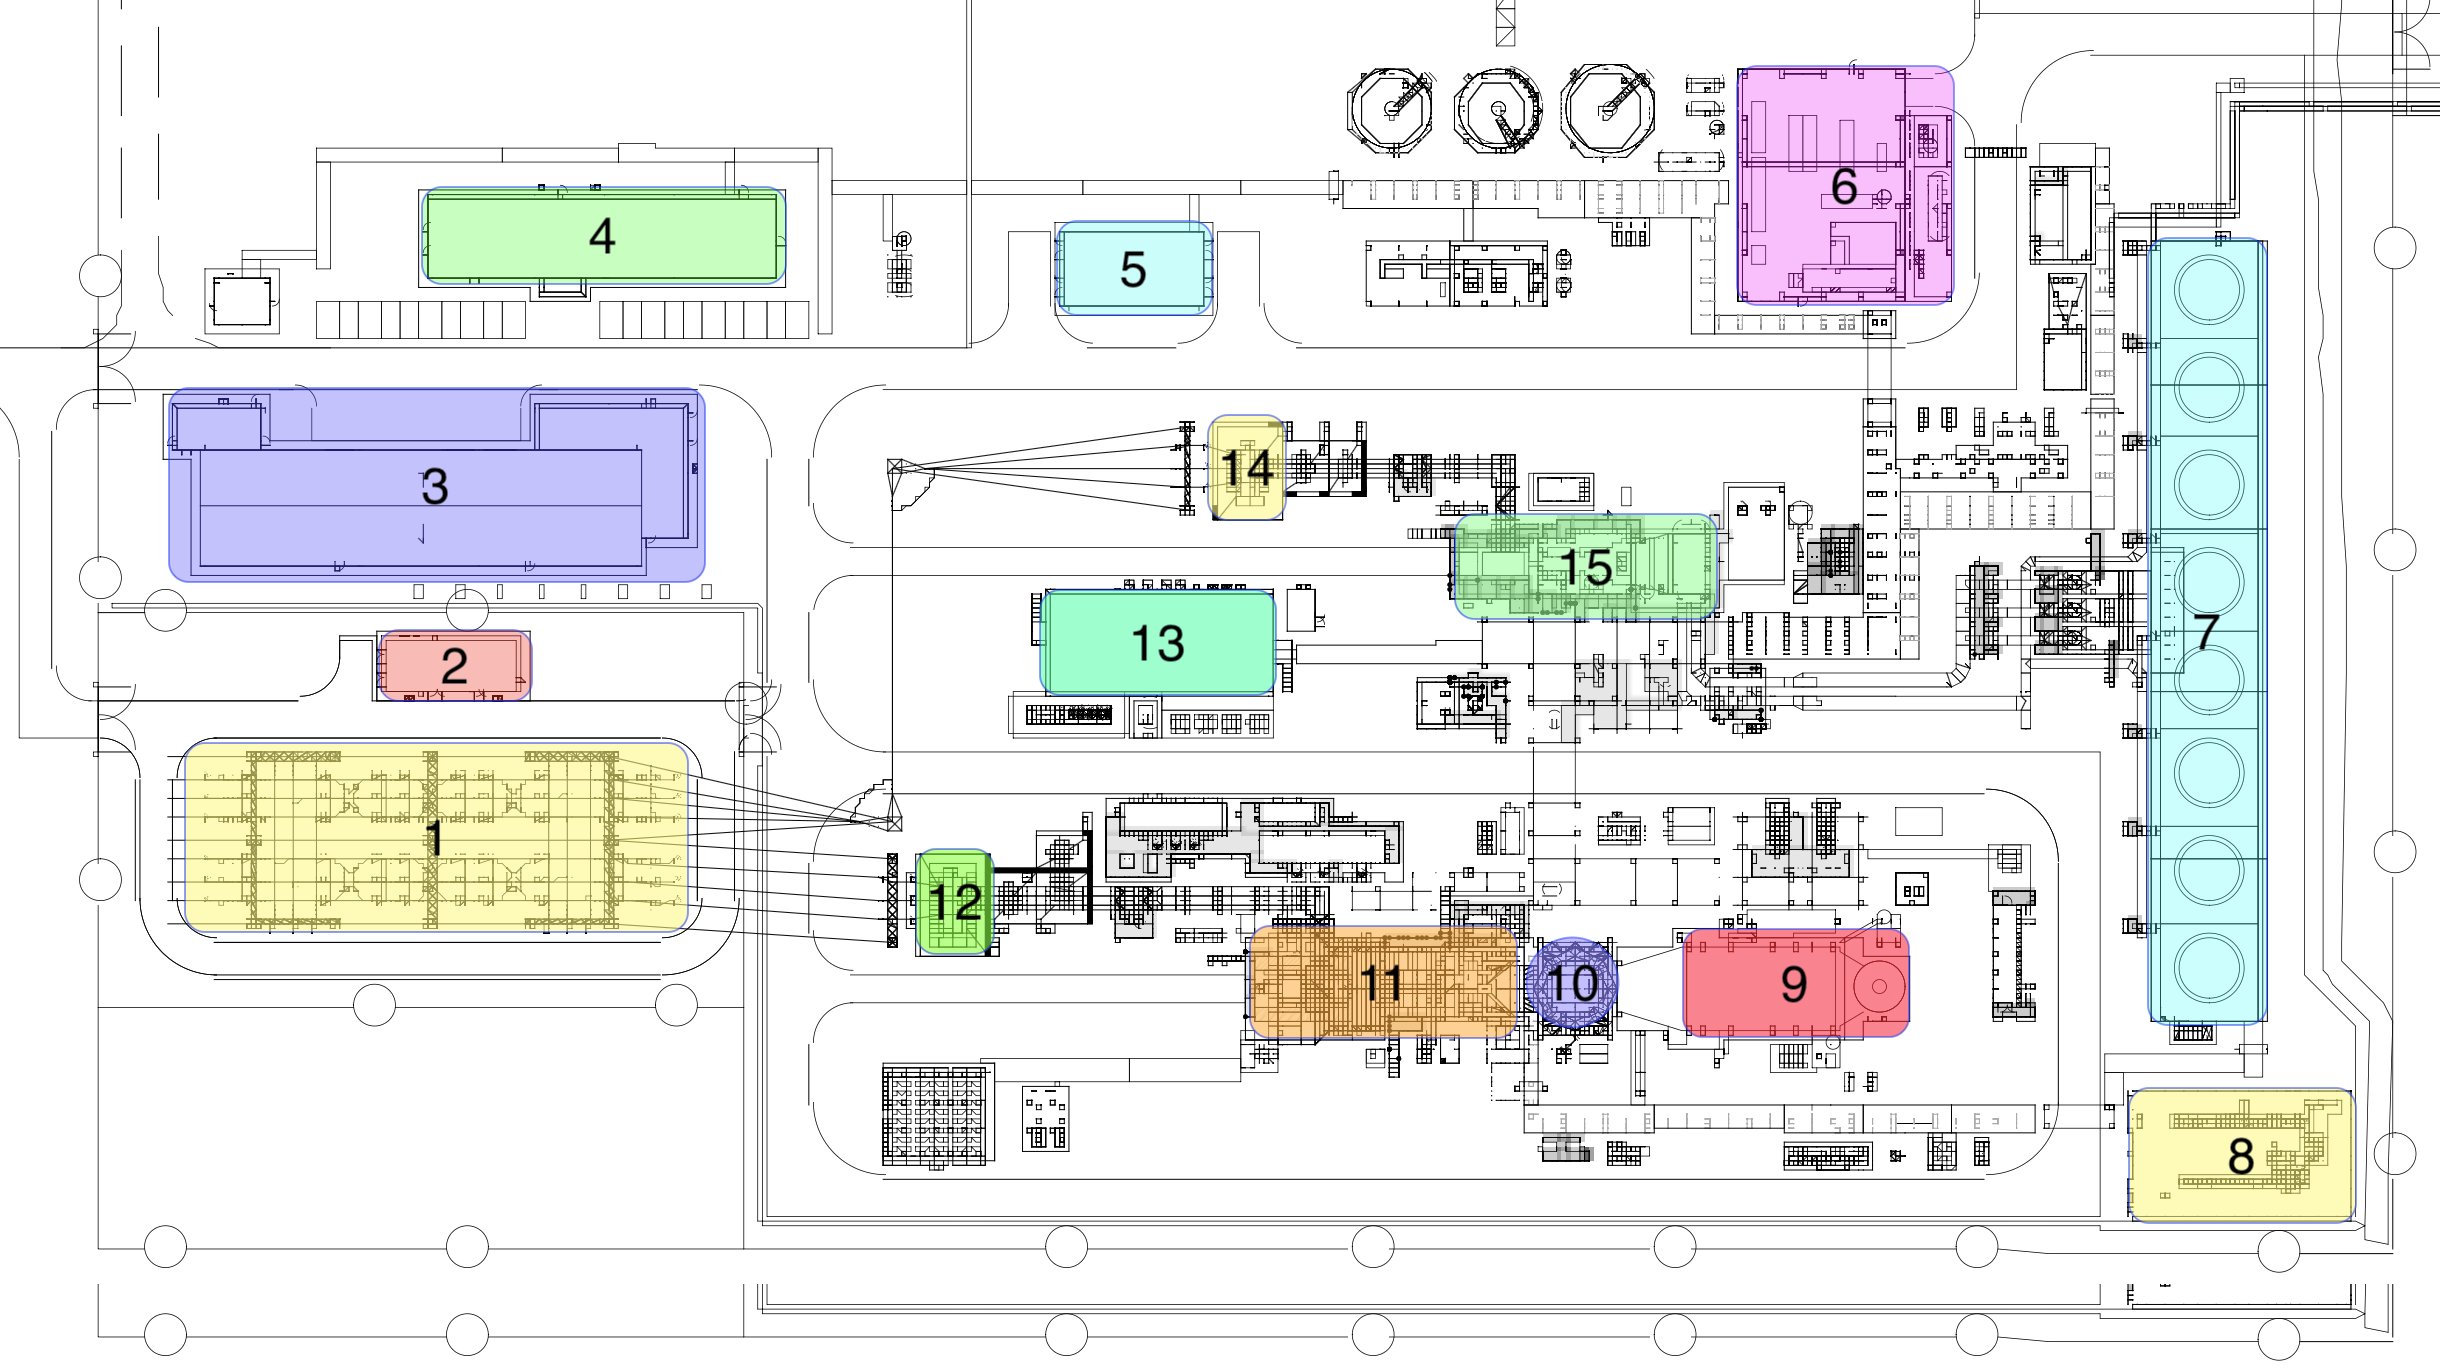
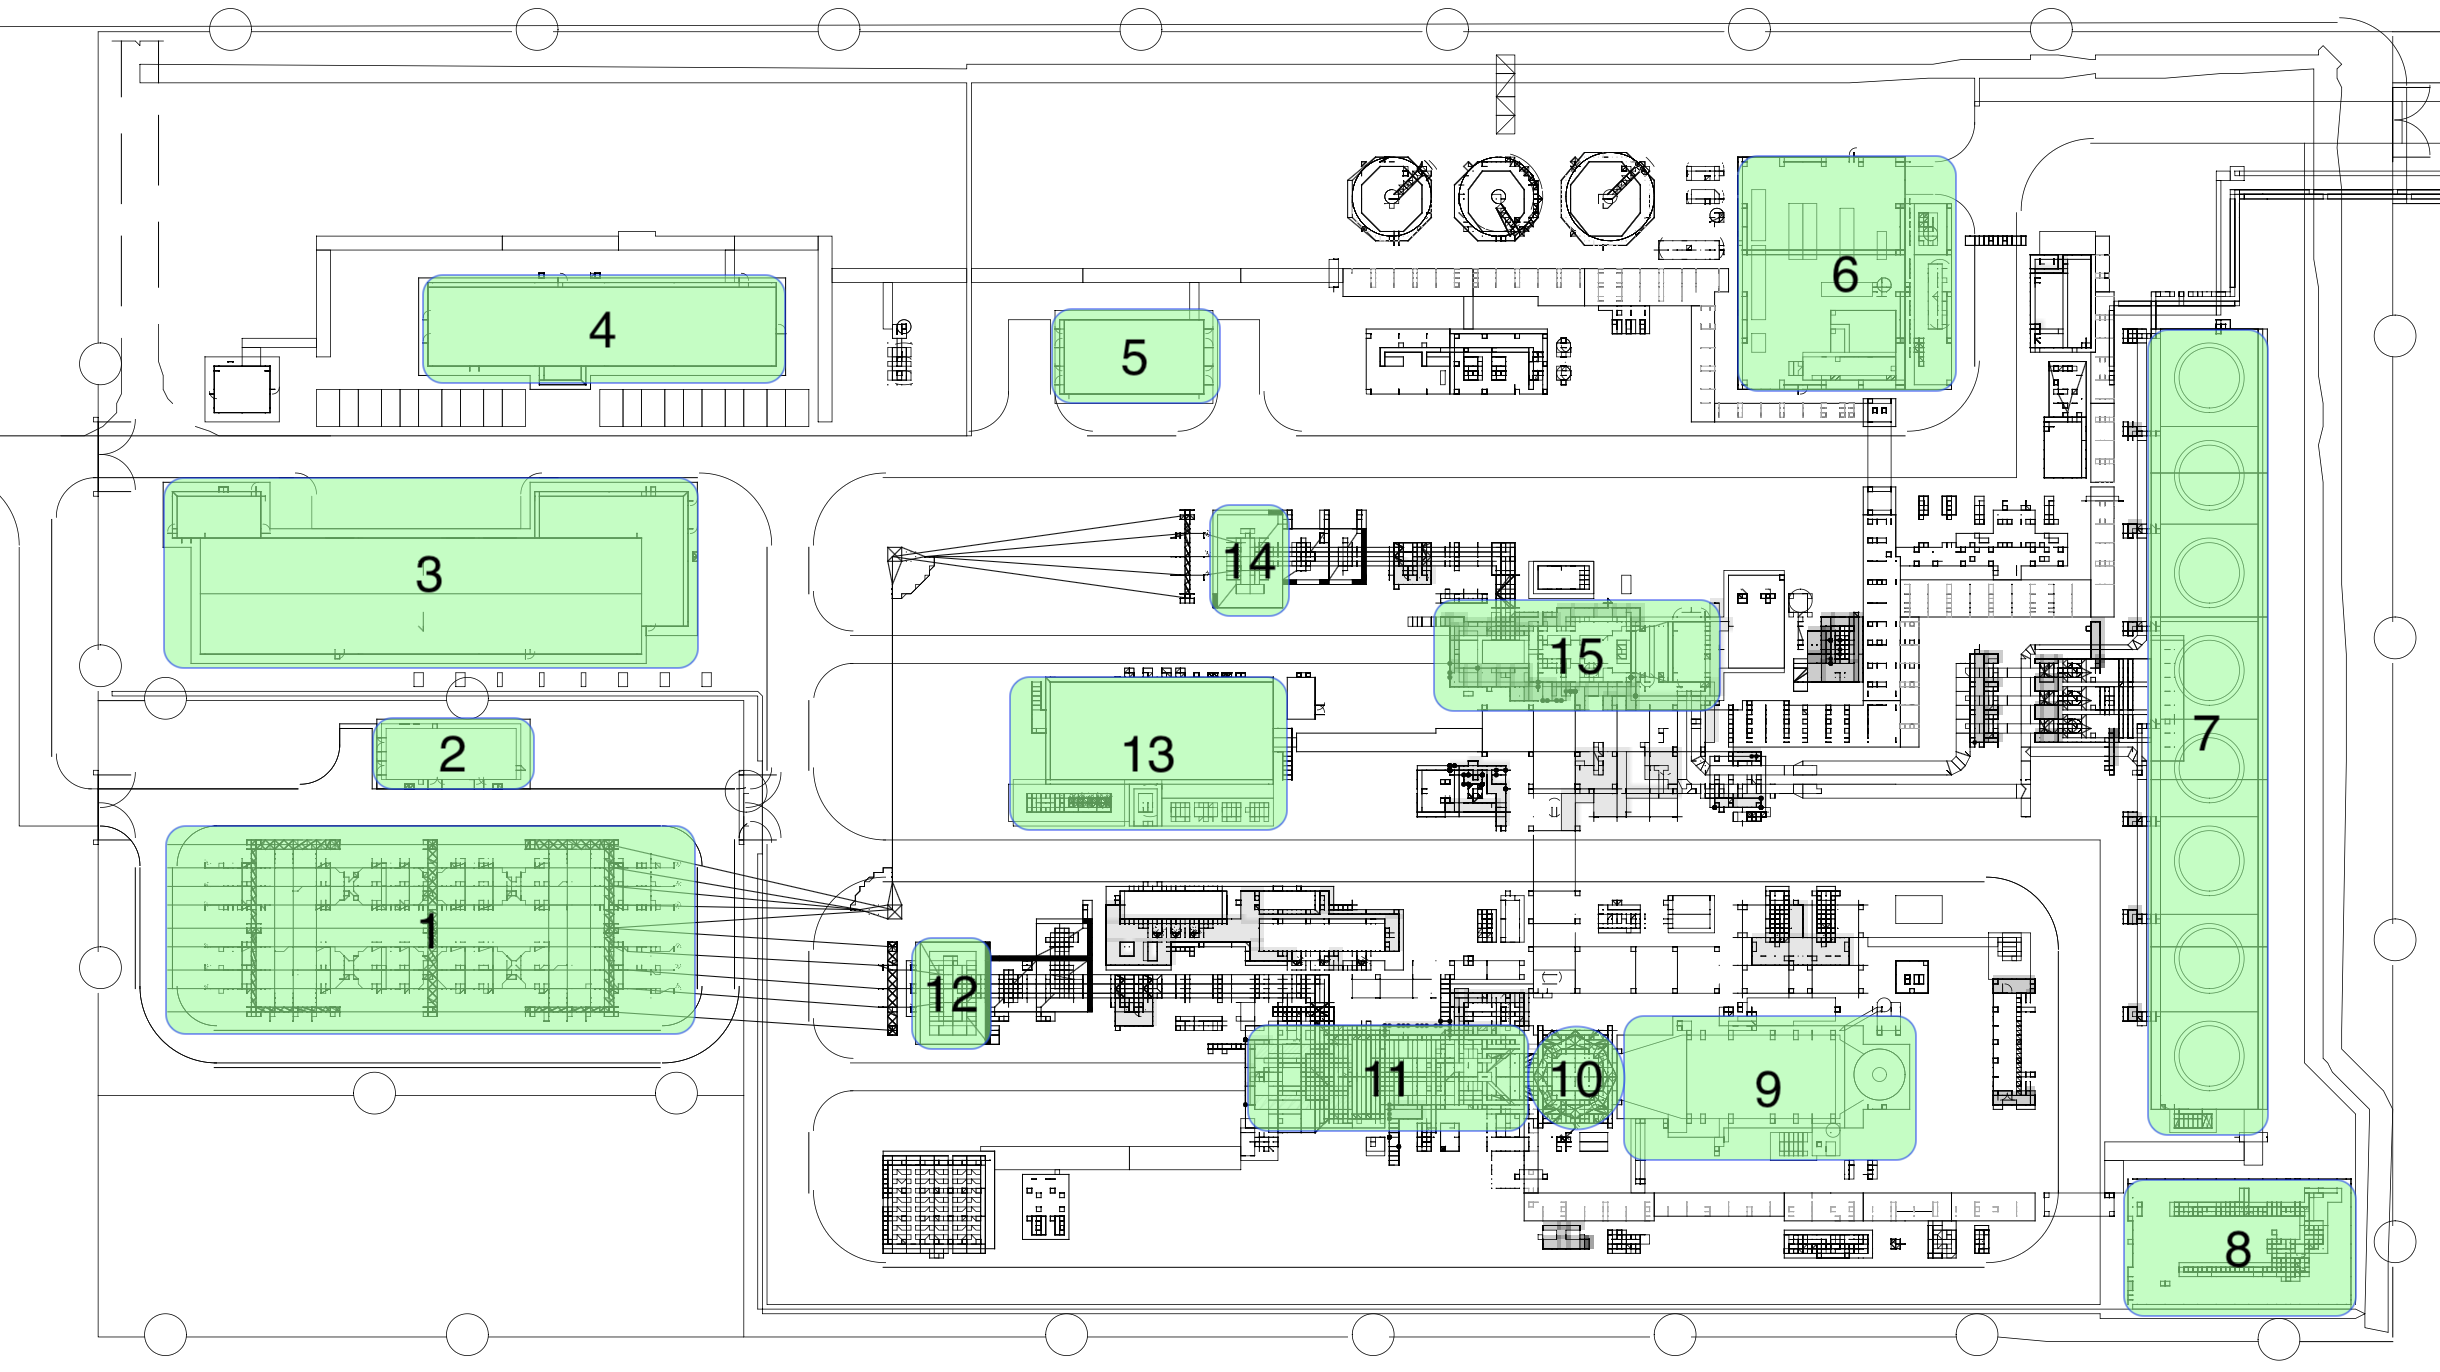
fix(plant-map): v6 — coords from updated annotated PNG
User re-painted all 15 zones in green (thinking the original had a
dimension mismatch — verified the source and annotated PNGs are both
2440x1372 so the issue was actually the zone positions, not the file
geometry). The new annotation has the same number of zones but in
different pixel positions.

Re-ran /tmp/find_zones.swift against the new annotated file and
mapped the top components to zones 1-15 by relative position.
Zone 10 is small and falls between zones 9 and 11; flood fill did
not isolate it because of color similarity to neighbors, so it
keeps a hand-estimated centroid (1583, 1080) sitting between the
two detected components.

Also refreshes public/images/gsf-plotplan-anotado.png so the debug
overlay shows the latest annotation.

diff --git a/src/components/PlantMap.tsx b/src/components/PlantMap.tsx
@@ -35,121 +35,121 @@ type Hotspot = {
 const HOTSPOTS: Hotspot[] = [
   {
     id: 1,
-    cx: 435,
-    cy: 836,
-    zone: { x: 184, y: 742, width: 505, height: 191 },
+    cx: 465,
+    cy: 941,
+    zone: { x: 165, y: 825, width: 531, height: 210 },
     placeholderName: "Zone 1",
     placeholderDescription: "Pending identification.",
   },
   {
     id: 2,
-    cx: 458,
-    cy: 662,
-    zone: { x: 382, y: 632, width: 147, height: 68 },
+    cx: 455,
+    cy: 749,
+    zone: { x: 377, y: 717, width: 158, height: 71 },
     placeholderName: "Zone 2",
     placeholderDescription: "Pending identification.",
   },
   {
     id: 3,
-    cx: 425,
-    cy: 480,
-    zone: { x: 168, y: 387, width: 531, height: 197 },
+    cx: 435,
+    cy: 576,
+    zone: { x: 163, y: 479, width: 536, height: 190 },
     placeholderName: "Zone 3",
     placeholderDescription: "Pending identification.",
   },
   {
     id: 4,
     cx: 601,
-    cy: 238,
-    zone: { x: 429, y: 200, width: 346, height: 77 },
+    cy: 325,
+    zone: { x: 429, y: 288, width: 346, height: 77 },
     placeholderName: "Zone 4",
     placeholderDescription: "Pending identification.",
   },
   {
     id: 5,
     cx: 1133,
-    cy: 268,
-    zone: { x: 1065, y: 233, width: 138, height: 72 },
+    cy: 356,
+    zone: { x: 1065, y: 321, width: 138, height: 72 },
     placeholderName: "Zone 5",
     placeholderDescription: "Pending identification.",
   },
   {
     id: 6,
-    cx: 1840,
-    cy: 175,
-    zone: { x: 1741, y: 65, width: 214, height: 240 },
+    cx: 1820,
+    cy: 260,
+    zone: { x: 1743, y: 155, width: 162, height: 240 },
     placeholderName: "Zone 6",
     placeholderDescription: "Pending identification.",
   },
   {
     id: 7,
-    cx: 2210,
-    cy: 700,
-    zone: { x: 2147, y: 242, width: 120, height: 950 },
+    cx: 2207,
+    cy: 732,
+    zone: { x: 2147, y: 330, width: 122, height: 806 },
     placeholderName: "Zone 7",
     placeholderDescription: "Pending identification.",
   },
   {
     id: 8,
-    cx: 2240,
-    cy: 1156,
-    zone: { x: 2128, y: 1087, width: 229, height: 137 },
+    cx: 2235,
+    cy: 1250,
+    zone: { x: 2123, y: 1180, width: 232, height: 137 },
     placeholderName: "Zone 8",
     placeholderDescription: "Pending identification.",
   },
   {
     id: 9,
-    cx: 1800,
-    cy: 988,
-    zone: { x: 1687, y: 938, width: 221, height: 108 },
+    cx: 1768,
+    cy: 1087,
+    zone: { x: 1618, y: 1015, width: 299, height: 146 },
     placeholderName: "Zone 9",
     placeholderDescription: "Pending identification.",
   },
   {
     id: 10,
-    cx: 1571,
-    cy: 982,
-    zone: { x: 1525, y: 941, width: 94, height: 88 },
+    cx: 1583,
+    cy: 1080,
+    zone: { x: 1550, y: 1040, width: 65, height: 80 },
     placeholderName: "Zone 10",
     placeholderDescription: "Pending identification.",
   },
   {
     id: 11,
-    cx: 1382,
-    cy: 981,
-    zone: { x: 1249, y: 927, width: 269, height: 112 },
+    cx: 1431,
+    cy: 1075,
+    zone: { x: 1247, y: 1024, width: 374, height: 108 },
     placeholderName: "Zone 11",
     placeholderDescription: "Pending identification.",
   },
   {
     id: 12,
-    cx: 958,
-    cy: 903,
-    zone: { x: 915, y: 853, width: 80, height: 102 },
+    cx: 952,
+    cy: 994,
+    zone: { x: 911, y: 941, width: 81, height: 109 },
     placeholderName: "Zone 12",
     placeholderDescription: "Pending identification.",
   },
   {
     id: 13,
-    cx: 1160,
-    cy: 642,
-    zone: { x: 1051, y: 595, width: 221, height: 96 },
+    cx: 1161,
+    cy: 729,
+    zone: { x: 1051, y: 683, width: 221, height: 96 },
     placeholderName: "Zone 13",
     placeholderDescription: "Pending identification.",
   },
   {
     id: 14,
     cx: 1243,
-    cy: 465,
-    zone: { x: 1207, y: 414, width: 75, height: 105 },
+    cy: 525,
+    zone: { x: 1209, y: 504, width: 73, height: 52 },
     placeholderName: "Zone 14",
     placeholderDescription: "Pending identification.",
   },
   {
     id: 15,
-    cx: 1585,
-    cy: 566,
-    zone: { x: 1454, y: 513, width: 264, height: 107 },
+    cx: 1577,
+    cy: 655,
+    zone: { x: 1433, y: 599, width: 288, height: 113 },
     placeholderName: "Zone 15",
     placeholderDescription: "Pending identification.",
   },